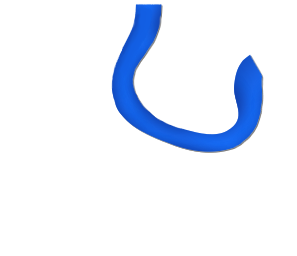
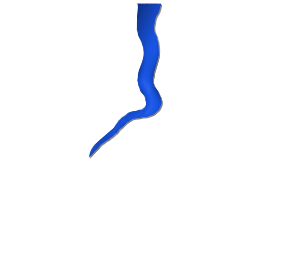
Made ImageLoader .jar compatable

Changed region(s): [[0.303, 0.0, 0.9091, 0.625]]

diff --git a/src/Views/ViewUtility/ImageLoader.java b/src/Views/ViewUtility/ImageLoader.java
@@ -1,9 +1,7 @@
 package Views.ViewUtility;
 
 import javax.imageio.ImageIO;
-import javax.swing.*;
 import java.awt.image.BufferedImage;
-import java.io.File;
 import java.util.HashMap;
 
 public class ImageLoader {
@@ -19,13 +17,18 @@ public class ImageLoader {
 
         BufferedImage test = null;
         try {
-            cachedImages.put("Mountain", ImageIO.read( new File("res/Images/mountain.png")));
-            cachedImages.put("Desert", ImageIO.read(new File("res/Images/desert.png")));
-            cachedImages.put("Pasture", ImageIO.read(new File("res/Images/pasture.png")));
-            cachedImages.put("Rock", ImageIO.read(new File("res/Images/rock.png")));
-            cachedImages.put("Woods", ImageIO.read(new File("res/Images/woods.png")));
-            cachedImages.put("Sea", ImageIO.read(new File("res/Images/sea.png")));
+            cachedImages.put("Mountain", ImageIO.read(ImageLoader.class.getResourceAsStream("/Images/mountain.png")));
+            cachedImages.put("Desert", ImageIO.read(ImageLoader.class.getResourceAsStream("/Images/desert.png")));
+            cachedImages.put("Pasture", ImageIO.read(ImageLoader.class.getResourceAsStream("/Images/pasture.png")));
+            cachedImages.put("Rock", ImageIO.read(ImageLoader.class.getResourceAsStream("/Images/rock.png")));
+            cachedImages.put("Woods", ImageIO.read(ImageLoader.class.getResourceAsStream("/Images/woods.png")));
+            cachedImages.put("Sea", ImageIO.read(ImageLoader.class.getResourceAsStream("/Images/sea.png")));
 
+            cachedImages.put("River 1", ImageIO.read(ImageLoader.class.getResourceAsStream("/Images/river1.png")));
+            cachedImages.put("River 2-1", ImageIO.read(ImageLoader.class.getResourceAsStream("/Images/river2-1.png")));
+            cachedImages.put("River 2-2", ImageIO.read(ImageLoader.class.getResourceAsStream("/Images/river2-2.png")));
+            cachedImages.put("River 2-3", ImageIO.read(ImageLoader.class.getResourceAsStream("/Images/river2-3.png")));
+            cachedImages.put("River 3", ImageIO.read(ImageLoader.class.getResourceAsStream("/Images/river3.png")));
         }
         catch (Exception e) {
             e.printStackTrace();
